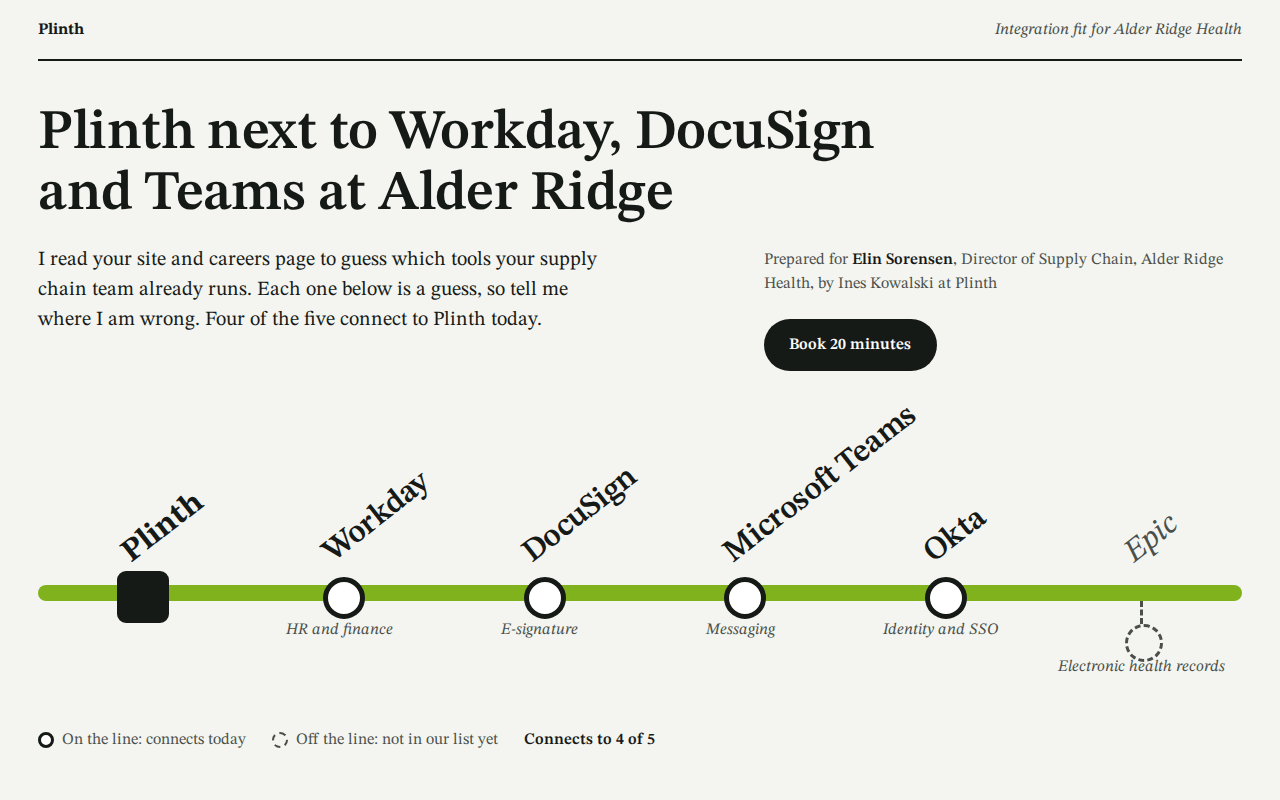
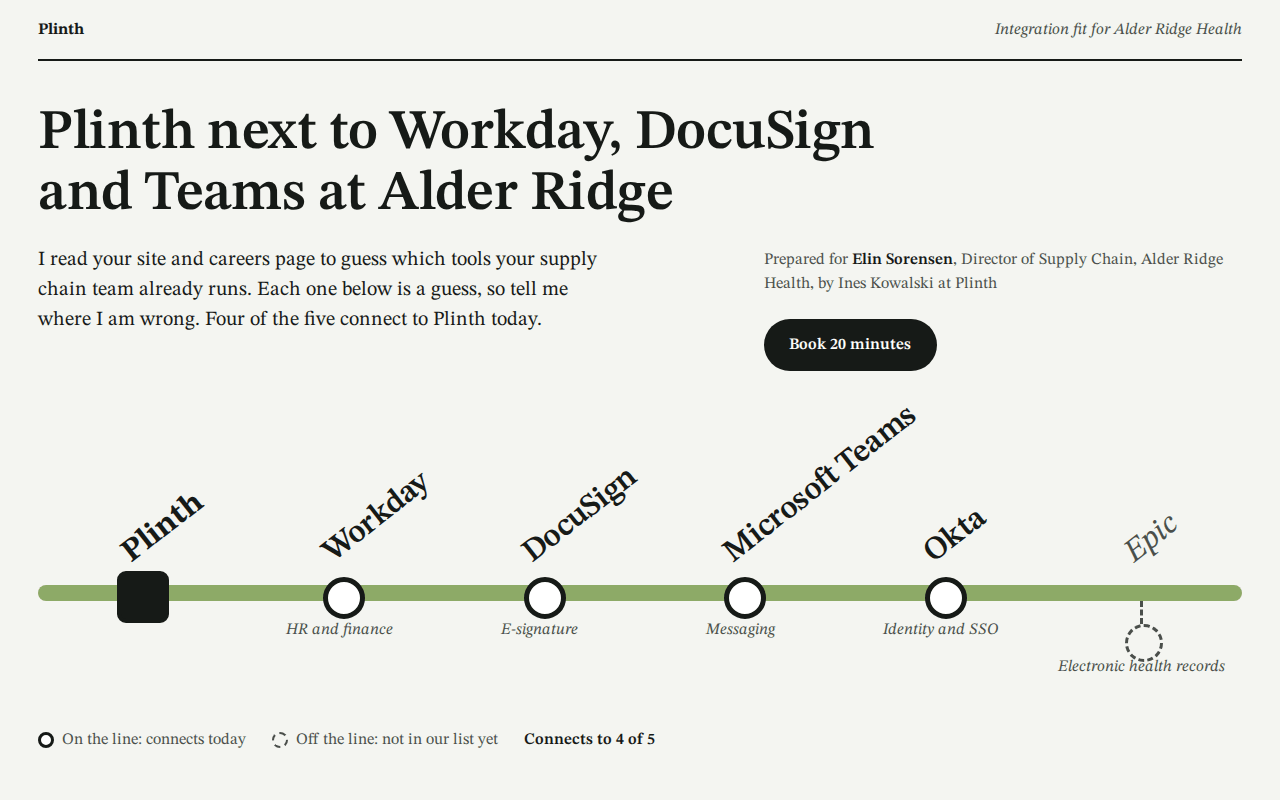
Library colour pass: tech-fit, softer line green

diff --git a/starters/tech-fit/preview/alder-ridge.html b/starters/tech-fit/preview/alder-ridge.html
@@ -10,10 +10,10 @@
 *{box-sizing:border-box}
 html{-webkit-text-size-adjust:100%}
 body{margin:0;background:#f4f5f1;color:#161a17;font-family:'STIX Two Text',Georgia,'Times New Roman',serif;font-size:18px;line-height:1.5;-webkit-font-smoothing:antialiased}
-.tf{--a:#7fb21c;--a2:#161a17;--ink:#161a17;--soft:#4a504b;--paper:#f4f5f1;--tone:#e4e7df;--rule:#c9cec4;
+.tf{--a:#8daa67;--a2:#161a17;--ink:#161a17;--soft:#4a504b;--paper:#f4f5f1;--tone:#e4e7df;--rule:#c9cec4;
 --on-a:#161a17;--on-a:color(from var(--a) xyz-d65 clamp(0,(.18 - y) * 1000000,.9505) clamp(0,(.18 - y) * 1000000,1) clamp(0,(.18 - y) * 1000000,1.089));
 --on-a2:#f4f5f1;--on-a2:color(from var(--a2) xyz-d65 clamp(0,(.18 - y) * 1000000,.9505) clamp(0,(.18 - y) * 1000000,1) clamp(0,(.18 - y) * 1000000,1.089));
---mark:#7fb21c;--mark:oklch(from var(--a) min(l,0.45) c h);
+--mark:#8daa67;--mark:oklch(from var(--a) min(l,0.45) c h);
 --m:clamp(1.125rem,3vw,2.5rem);--ly:2rem;overflow-x:clip}
 .tf h1,.tf h2,.tf h3,.nm,.step-n{font-family:'STIX Two Text',Georgia,'Times New Roman',serif;font-weight:600;letter-spacing:-.01em;line-height:1.1;text-wrap:balance;margin:0}
 .tf p{margin:0}
